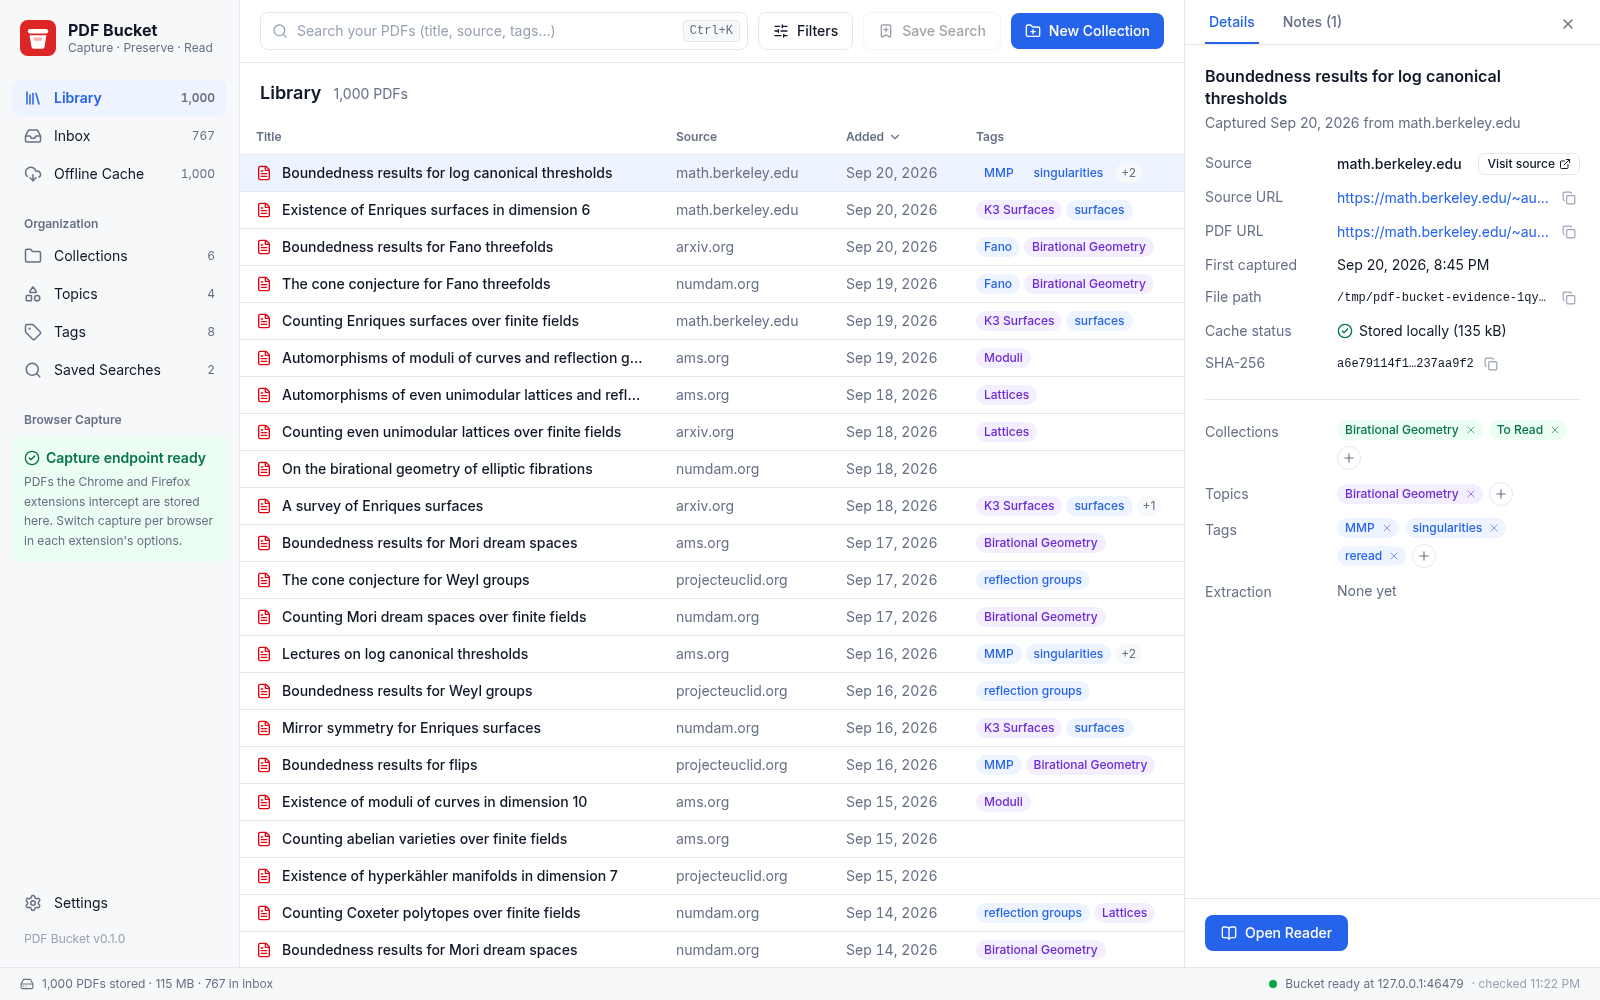
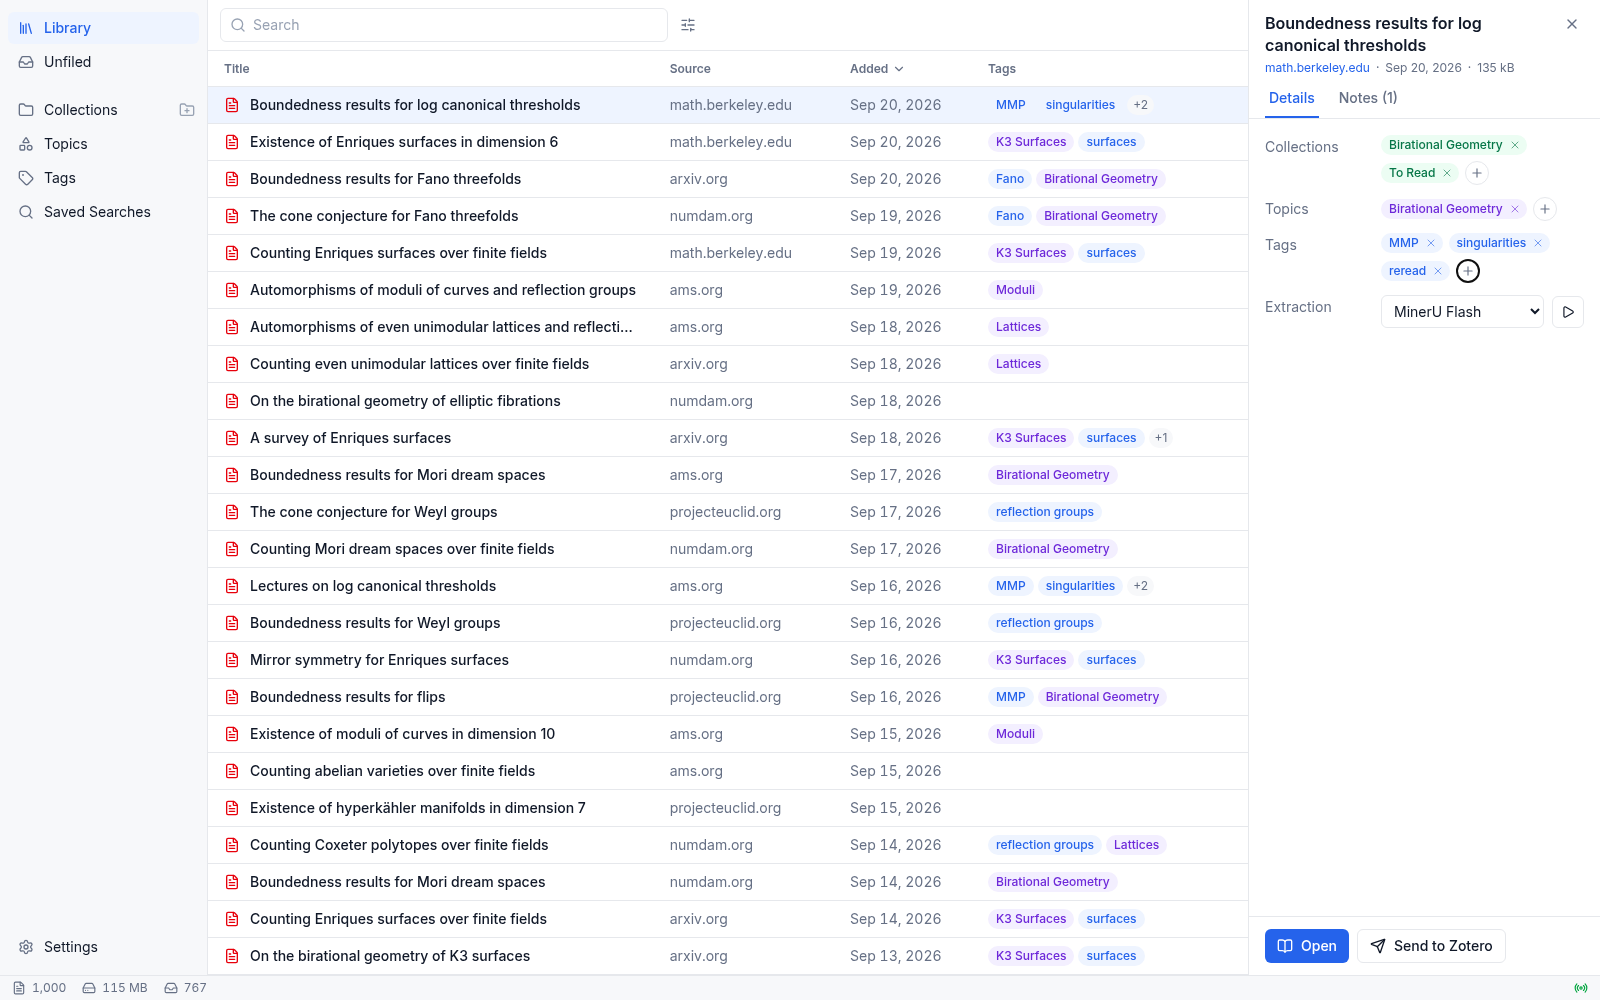
fix(reader, ui): viewer src rendered by the server; organization lists without counts
The reader page renders the PDF.js viewer's src itself and hands the opening
fragment to the viewer as a same-document location.replace, which PDF.js's
hashchange handler applies and which adds no history entry; setting src
from script left WebDriver (and anything holding the frame) on the initial
blank frame. The screenshot script reads the drawn canvas from the top page,
because the reader rewrites its own address as the view changes.

The collection, tag and saved-search lists drop their per-entry counts.

M2 screenshots regenerated against the new UI; the Embedded Foundations
shot is gone with the section. Timings: 1,000-row load 0.49 s, filter
0.075 s.

Refs #17

diff --git a/src/web/screens/OrganizationScreen.tsx b/src/web/screens/OrganizationScreen.tsx
@@ -18,7 +18,7 @@ import {
   SEARCH_FIELDS,
 } from "../../server/libraryContract";
 import { isTopic, tagLabel } from "../format";
-import { itemsInView, tagCounts, viewName } from "../librarySelectors";
+import { tagCounts, viewName } from "../librarySelectors";
 import { entryView, ORGANIZATION_TABS, type OrganizationTab, organizationPath } from "../routes";
 import { SEARCH_FIELD_LABELS } from "../search";
 
@@ -57,19 +57,12 @@ function entryClasses(selected: boolean): string {
   }`;
 }
 
-function Count({ value }: { value: number }) {
-  return (
-    <span className="ml-auto pl-3 text-xs text-muted tabular-nums">{value.toLocaleString()}</span>
-  );
-}
-
 function CollectionTree({ payload, entry }: { payload: LibraryPayload; entry: string | null }) {
   const renderNode = (collection: Collection, depth: number): ReactNode => {
     const children = payload.collections.filter(
       (candidate) => candidate.parentId === collection.id,
     );
     const selected = collection.id === entry;
-    const count = itemsInView(payload, { kind: "collection", id: collection.id }).length;
     return (
       <li key={collection.id}>
         <Link
@@ -83,7 +76,6 @@ function CollectionTree({ payload, entry }: { payload: LibraryPayload; entry: st
             <Folder aria-hidden className="h-4 w-4 shrink-0 text-accent" />
           )}
           <span className="truncate">{collection.name}</span>
-          <Count value={count} />
         </Link>
         {children.length > 0 && <ul>{children.map((child) => renderNode(child, depth + 1))}</ul>}
       </li>
@@ -111,7 +103,7 @@ function TagList({
   const Icon = tab === "topics" ? Shapes : Tag;
   return (
     <ul className="grid grid-cols-[repeat(auto-fill,minmax(15rem,1fr))] gap-1">
-      {tags.map(([tag, count]) => (
+      {tags.map(([tag]) => (
         <li key={tag}>
           <Link href={organizationPath(tab, tag)} className={entryClasses(tag === entry)}>
             <Icon
@@ -119,7 +111,6 @@ function TagList({
               className={`h-4 w-4 shrink-0 ${tab === "topics" ? "text-topic" : "text-accent"}`}
             />
             <span className="truncate">{tagLabel(tag)}</span>
-            <Count value={count} />
           </Link>
         </li>
       ))}
@@ -151,7 +142,6 @@ function SavedSearchList({ payload, entry }: { payload: LibraryPayload; entry: s
                 {searchSummary(search)}
               </span>
             </span>
-            <Count value={itemsInView(payload, { kind: "saved", id: search.id }).length} />
           </Link>
         </li>
       ))}

diff --git a/src/server/reader.ts b/src/server/reader.ts
@@ -26,10 +26,11 @@ const LINK = ICON(
 
 // Runs in the reader page. The viewer is same-origin, so the page reads PDF.js's event bus:
 // every view change (page, zoom, scroll) replaces the address's fragment with PDF.js's own
-// open parameters, and the fragment the page was opened with goes to the viewer.
+// open parameters. The fragment the page was opened with goes to the viewer as a same-document
+// replace, which PDF.js's hashchange handler applies (as the initial view if the document is
+// still loading) and which adds no history entry.
 const SCRIPT = raw(`
 const frame = document.querySelector("iframe");
-frame.src = frame.dataset.viewer + location.hash;
 const navigate = (event) => {
   if (event.altKey && event.key === "ArrowLeft") { event.preventDefault(); history.back(); }
   if (event.altKey && event.key === "ArrowRight") { event.preventDefault(); history.forward(); }
@@ -44,6 +45,10 @@ copy.addEventListener("click", async () => {
   setTimeout(() => delete copy.dataset.copied, 1500);
 });
 frame.addEventListener("load", async () => {
+  const inner = frame.contentWindow.location;
+  if (location.hash !== "" && inner.hash !== location.hash) {
+    inner.replace(inner.pathname + inner.search + location.hash);
+  }
   frame.contentWindow.addEventListener("keydown", navigate);
   const viewer = frame.contentWindow.PDFViewerApplication;
   await viewer.initializedPromise;
@@ -98,7 +103,7 @@ export function readerPage(item: BucketItem, origin: string) {
       <h1 title="${item.title}">${item.title}</h1>
       <button id="copy-link" type="button" aria-label="Copy link to this view" title="Copy link to this view">${LINK}</button>
     </header>
-    <iframe data-viewer="${viewer}" title="${item.title}"></iframe>
+    <iframe src="${viewer}" title="${item.title}"></iframe>
     <script type="module">${SCRIPT}</script>
   </body>
 </html>`;

diff --git a/scripts/library_screenshots.py b/scripts/library_screenshots.py
@@ -314,9 +314,9 @@ def webkit_screens(stack: ExitStack, out: Path, origins: dict[str, str], filed: 
     wait.until(expected_conditions.presence_of_element_located((By.CSS_SELECTOR, "aside[aria-label='Item details']")))
     driver.save_screenshot(str(out / "webkit-library-populated.png"))
     driver.get(f"{origins['seeded']}/read/{quote(filed['reader'])}")
-    driver.switch_to.frame(wait.until(expected_conditions.presence_of_element_located((By.TAG_NAME, "iframe"))))
-    wait.until(expected_conditions.presence_of_element_located((By.CSS_SELECTOR, ".page canvas")))
-    driver.switch_to.default_content()
+    # The reader rewrites its own address as the view changes, which ends a WebDriver frame
+    # context; the viewer is same-origin, so the page itself reports when PDF.js has drawn.
+    wait.until(lambda d: d.execute_script("return document.querySelector('iframe').contentDocument?.querySelector('.page canvas') != null"))
     time.sleep(0.5)
     driver.save_screenshot(str(out / "webkit-reader.png"))
     driver.quit()
